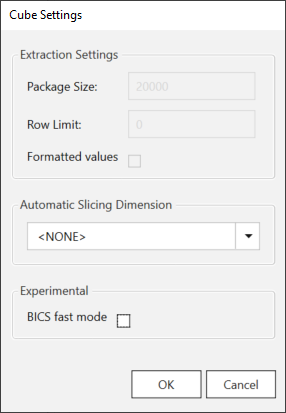
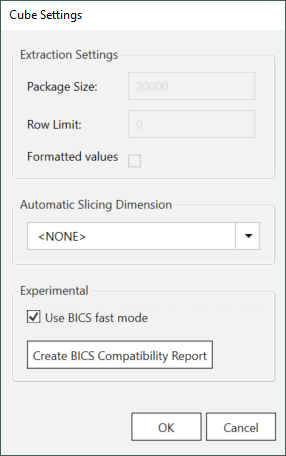
compatibility report

diff --git a/_includes/_content/de/bw-infocubes-und-bex-queries/infocube-extraktionseinstellungen.md b/_includes/_content/de/bw-infocubes-und-bex-queries/infocube-extraktionseinstellungen.md
@@ -31,10 +31,20 @@ Automatisches Slicing bedeutet, dass für jeden Einzelwert der gewählten Slicin
 
 ### Experimental
 
+Die folgenden Einstellungen sind nur für BICS Extraktionen verfügbar.
+Sie werden angezeigt, nachdem die Metadaten einer BICS Extraktion abgerufen wurden.
+
 ![XU_BWCube_Settings](/img/content/bwcube-bics-fast-mode.png){:class="img-responsive"}
 
 **BICS Fast Mode**<br>
-Diese Einstellung ist nur für BICS Extraktionen verfügbar.
+
 Wenn diese Checkbox aktiv ist, wird das interne Verhalten der BICS-Komponente gewechselt.
 Anstatt RFC-Funktionsdefinitionen bei jedem Aufruf aus SAP zu laden, verwendet der BICS Fast Mode lokal abgelegte BAPI Definitionen.
 Dieses Verhalten kann die Performance der BICS-Komponente erhöhen.
+
+**Create BICS Compatibilita Report**<br>
+Weil sich der BICS Modus noch in der Beta-Phase befindet, sind Fehler beim Ausführen des BICS Modus nicht ausgeschlossen.
+Klicken Sie auf **[Create BICS Compatibilita Report]**, um eine Testreihe auszuführen, die uns hilft die Ursache des Fehlers zu finden und den Fehler zu beheben.
+Die Ergebnisse der Testreihe werden in einer .zip-Datei zusammengefasst.
+Wenn Sie mehrere SAP-Systeme verwenden, führen Sie diese Testreihe auf jeder Ihrer SAP-Quellen aus. <br>
+Senden Sie die resultierende .zip-Dateien an den [Theobald Support](https://support.theobald-software.com).

diff --git a/_includes/_content/en/bw-infocubes-and-bex-queries/bw-cube-extraction-settings.md b/_includes/_content/en/bw-infocubes-and-bex-queries/bw-cube-extraction-settings.md
@@ -32,10 +32,18 @@ Automatic slicing means that a loop is executed for each single value of the cho
 
 ### Experimental
 
+The following settings are only available for BICS extractions. They appear in the extraction settings window after retrieving the metadata of a BICS extraction.
+
 ![XU_BWCube_Settings](/img/content/bwcube-bics-fast-mode.png){:class="img-responsive"}
 
 **BICS Fast Mode**<br>
-This setting is only visible for BICS extractions.
 Enabling the checkbox switches the internal behaviour of the BICS component.
 Instead of loading RFC function definitions from SAP for each function call, the BICS fast mode uses locally stored BAPI definitions.
-This which may increase the performance of the BICS component.
+This may increase the performance of the BICS component.
+
+**Create BICS Compatibilita Report**<br>
+As the BICS mode is still in beta phase, you may encounter errors when using this component. 
+Click **[Create BICS Compatibilita Report]** to run a number of tests to help us analyze why and where the error occured.
+The test results are automatically stored in a .zip file.
+If you have multiple different SAP systems, perform this test on each of them. <br>
+Send the resulting .zip files to the [Theobald Support](https://support.theobald-software.com) team.
